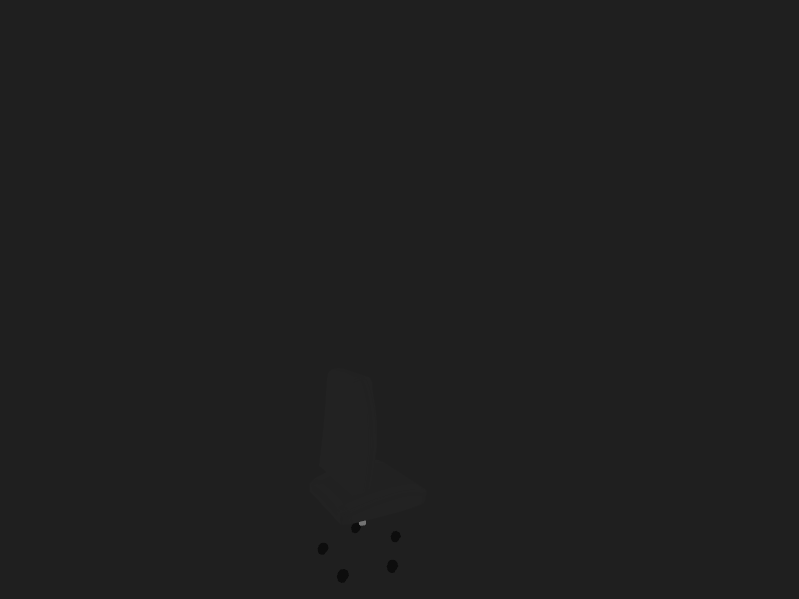
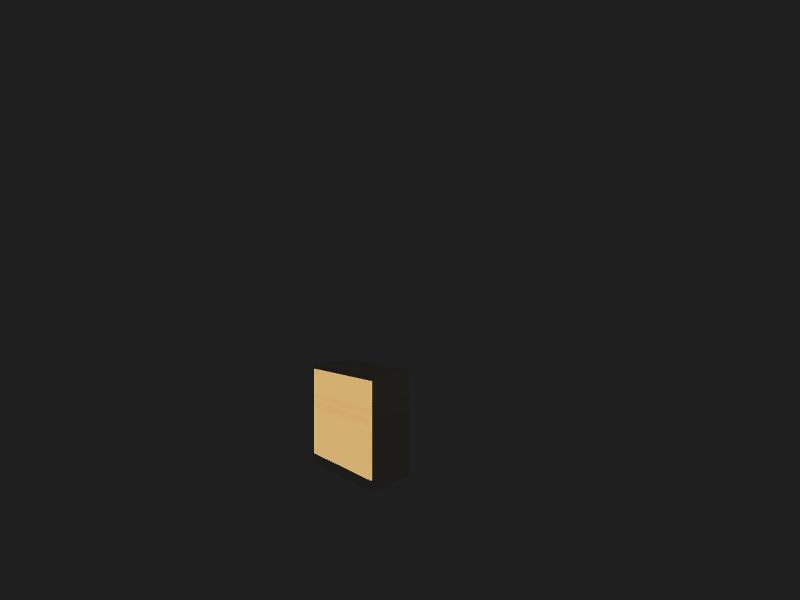
fix origin and rpy; fix double and single quote; fix scene graph tree

Changed region(s): [[0.3905, 0.601, 0.4806, 0.8114]]

diff --git a/src/esp/assets/URDFParser.cpp b/src/esp/assets/URDFParser.cpp
@@ -53,8 +53,8 @@ bool URDFParser::parse() {
       index = line.find("<link");
       if (index != -1) {
         is_link = true;
-        int name_index1 = line.find("\"");
-        int name_index2 = line.find("\"", name_index1 + 1);
+        int name_index1 = getQuoteIndex(line, index + 1); 
+        int name_index2 = getQuoteIndex(line, name_index1 + 1);
         link_vec_.push_back(std::make_unique<Link>());
         link_vec_[link_vec_.size() - 1]->link_name =
             line.substr(name_index1 + 1, name_index2 - name_index1 - 1);
@@ -76,8 +76,8 @@ bool URDFParser::parse() {
       // Get the mesh filename
       index = line.find("<mesh");
       if (index != -1 && is_link == true && is_visual == true) {
-        int name_index1 = line.find("\"");
-        int name_index2 = line.find("\"", name_index1 + 1);
+        int name_index1 = getQuoteIndex(line, index + 1); 
+        int name_index2 = getQuoteIndex(line, name_index1 + 1); 
         link_vec_[link_vec_.size() - 1]->mesh_name = base_path + 
             line.substr(name_index1 + 1, name_index2 - name_index1 - 1);
         // std::cout << name_link_map[link_vec_[link_vec_.size() -
@@ -100,29 +100,26 @@ bool URDFParser::parse() {
       // Get the joint type
       index = line.find("type");
       if (index != -1 && is_joint == true) {
-        // First two index for joint name
-        int name_index1 = line.find("\"");
-        int name_index2 = line.find("\"", name_index1 + 1);
-        // Index 3 and 4 for joint type
-        int name_index3 = line.find("\"", name_index2 + 1);
-        int name_index4 = line.find("\"", name_index3 + 1);
+        // Index 1 and 2 for joint type
+        int name_index1 = getQuoteIndex(line, index + 1); 
+        int name_index2 = getQuoteIndex(line, name_index1 + 1); 
         joint_vec_[joint_vec_.size() - 1]->joint_type =
-            line.substr(name_index3 + 1, name_index4 - name_index3 - 1);
+            line.substr(name_index1 + 1, name_index2 - name_index1 - 1);
       }
 
       // Get the parent name
       index = line.find("<parent");
       if (index != -1 && is_joint == true) {
-        int name_index1 = line.find("\"");
-        int name_index2 = line.find("\"", name_index1 + 1);
+        int name_index1 = getQuoteIndex(line, index + 1); 
+        int name_index2 = getQuoteIndex(line, name_index1 + 1); 
         joint_vec_[joint_vec_.size() - 1]->parent_name =
             line.substr(name_index1 + 1, name_index2 - name_index1 - 1);
       }
       // Get the child name
       index = line.find("<child");
       if (index != -1 && is_joint == true) {
-        int name_index1 = line.find("\"");
-        int name_index2 = line.find("\"", name_index1 + 1);
+        int name_index1 = getQuoteIndex(line, index + 1); 
+        int name_index2 = getQuoteIndex(line, name_index1 + 1); 
         joint_vec_[joint_vec_.size() - 1]->child_name =
             line.substr(name_index1 + 1, name_index2 - name_index1 - 1);
       }
@@ -135,8 +132,8 @@ bool URDFParser::parse() {
       // Parse the origin for link-visual and joint
       index = line.find("<origin");
       if (index != -1) {
-        int origin_index1 = line.find("\"");
-        int origin_index2 = line.find("\"", origin_index1 + 1);
+        int origin_index1 = getQuoteIndex(line, index + 1); 
+        int origin_index2 = getQuoteIndex(line, origin_index1 + 1); 
         std::string origin =
             line.substr(origin_index1 + 1, origin_index2 - origin_index1 - 1);
 
@@ -164,8 +161,8 @@ bool URDFParser::parse() {
       // Parse the rpy for link-visual and joint
       index = line.find("rpy");
       if(index != -1) {
-        int rpy_index1 = line.find("\"", index + 1);
-        int rpy_index2 = line.find("\"", rpy_index2 + 1);
+        int rpy_index1 = getQuoteIndex(line, index + 1); 
+        int rpy_index2 = getQuoteIndex(line, rpy_index1 + 1); 
         std::string rpy =
               line.substr(rpy_index1 + 1, rpy_index2 - rpy_index1 - 1);
 
@@ -196,14 +193,14 @@ bool URDFParser::parse() {
       if (index != -1 && is_joint == true) {
         int temp_index;
         temp_index = line.find("lower");
-        int lower_index1 = line.find("\"", temp_index + 1);
-        int lower_index2 = line.find("\"", lower_index1 + 1);
+        int lower_index1 = getQuoteIndex(line, temp_index + 1); 
+        int lower_index2 = getQuoteIndex(line, lower_index1 + 1); 
         std::string lower =
             line.substr(lower_index1 + 1, lower_index2 - lower_index1 - 1);
 
         temp_index = line.find("upper");
-        int upper_index1 = line.find("\"", temp_index);
-        int upper_index2 = line.find("\"", upper_index1 + 1);
+        int upper_index1 = getQuoteIndex(line, temp_index + 1);
+        int upper_index2 = getQuoteIndex(line, upper_index1 + 1); 
         std::string upper =
             line.substr(upper_index1 + 1, upper_index2 - upper_index1 - 1);
 
@@ -215,8 +212,8 @@ bool URDFParser::parse() {
       // Parse the axis for joint
       index = line.find("<axis");
       if (index != -1 && is_joint == true) {
-        int axis_index1 = line.find("\"");
-        int axis_index2 = line.find("\"", axis_index1 + 1);
+        int axis_index1 = getQuoteIndex(line, index);
+        int axis_index2 = getQuoteIndex(line, axis_index1 + 1); 
         std::string axis =
             line.substr(axis_index1 + 1, axis_index2 - axis_index1 - 1);
 
@@ -247,11 +244,8 @@ bool URDFParser::parse() {
     children->joint_axis = joint_vec_[i]->axis;
     // Convert the coordinate from the parent link frame to the children link
     // frame
-    children->joint_origin = children->origin;
-    children->joint_rpy = children->rpy;
-    // children->joint_origin.x = children->origin.x;
-    // children->joint_origin.y = children->origin.y;
-    // children->joint_origin.z = children->origin.z;
+    children->joint_origin = joint_vec_[i]->origin;
+    children->joint_rpy = joint_vec_[i]->rpy;
 
     // Update the hierarchy tree
     children->parent_link = parent;
@@ -275,6 +269,21 @@ bool URDFParser::parse() {
   }
 
   return true;
+}
+
+int URDFParser::getQuoteIndex(const std::string& line, int index) {
+  int index1 = line.find("\'", index);
+  int index2 = line.find("\"", index);
+
+  if(index1 == -1 && index2 == -1) {
+    LOG(ERROR) << "Some Error for " << line << ", index: " << index << "\n";
+    exit(0);
+  }
+
+  if(index1 == -1) return index2;
+  if(index2 == -1) return index1;
+  
+  return std::min(index1, index2);
 }
 
 }  // namespace assets

diff --git a/src/esp/assets/ResourceManager.cpp b/src/esp/assets/ResourceManager.cpp
@@ -843,113 +843,46 @@ void ResourceManager::loadURDFMesh(
   child->setJointLimit(node->joint_limit);
   child->setJointAxis(node->joint_axis);
 
+  // Deal with the joint origin and rpy for the node
+  auto& child_object = *child;
+  vec3f joint_rpy = node->joint_rpy, joint_origin = node->joint_origin;
+
+  // Deal with the rpy of the joint
+  child_object.rotateX(Magnum::Rad(joint_rpy[0]));
+  child_object.rotateY(Magnum::Rad(joint_rpy[1]));
+  child_object.rotateZ(Magnum::Rad(joint_rpy[2]));
+
+  // Deal with the origin of the joint
+  child_object.translateLocal(Magnum::Vector3(joint_origin[0], joint_origin[1], joint_origin[2]));
+
   if (file != "") {
     const assets::AssetInfo info = assets::AssetInfo::fromPath(file);
 
-    if (!loadURDFMeshData(info, child, drawables)) {
+    if (!loadGeneralMeshData(info, child, drawables)) {
       LOG(ERROR) << "cannot load " << file;
       std::exit(1);
     }
+
+    // Deal with the link origin and rpy for the mesh node
+    auto* mesh_node = child->children().first();
+    auto& object = *mesh_node;
+    vec3f rpy = node->rpy, origin = node->origin;
+    
+    // std::cout << object.translation()[0] << " " << object.translation()[1] << " " << object.translation()[2] << " !!!!\n ";
+    // std::cout << object.rotation().vector().x() << " " << object.rotation().vector().y() << " " << object.rotation().vector().z() << "\n";
+
+    // Deal with the rpy of the link
+    object.rotateX(Magnum::Rad(rpy[0]));
+    object.rotateY(Magnum::Rad(rpy[1]));
+    object.rotateZ(Magnum::Rad(rpy[2]));
+
+    // Deal with the origin of the link
+    object.translateLocal(Magnum::Vector3(origin[0], origin[1], origin[2]));
+
   }
 
   for (int i = 0; i <= int(node->child_link.size()) - 1; ++i) {
     loadURDFMesh(node->child_link[i], child, drawables);
-  }
-}
-
-bool ResourceManager::loadURDFMeshData(
-    const AssetInfo& info,
-    scene::ArticulatedPartSceneNode* child /* = nullptr */,
-    DrawableGroup* drawables /* = nullptr */) {
-  const std::string& filename = info.filepath;
-  const bool fileIsLoaded = resourceDict_.count(filename) > 0;
-  const bool drawData = child != nullptr && drawables != nullptr;
-
-  // Mesh & metaData container
-  MeshMetaData metaData;
-
-#ifndef MAGNUM_BUILD_STATIC
-  Magnum::PluginManager::Manager<Importer> manager;
-#else
-  // avoid using plugins that might depend on different library versions
-  Magnum::PluginManager::Manager<Importer> manager{"nonexistent"};
-#endif
-
-  std::unique_ptr<Importer> importer =
-      manager.loadAndInstantiate("AnySceneImporter");
-  manager.setPreferredPlugins("GltfImporter", {"TinyGltfImporter"});
-#ifdef ESP_BUILD_ASSIMP_SUPPORT
-  manager.setPreferredPlugins("ObjImporter", {"AssimpImporter"});
-#endif
-
-  // Optional File loading
-  if (!fileIsLoaded) {
-    if (!importer->openFile(filename)) {
-      LOG(ERROR) << "Cannot open file " << filename;
-      return false;
-    }
-    // if this is a new file, load it and add it to the dictionary
-    loadTextures(*importer, &metaData);
-    loadMaterials(*importer, &metaData);
-    loadMeshes(*importer, &metaData);
-    resourceDict_.emplace(filename, metaData);
-
-    // Register magnum mesh
-    if (importer->defaultScene() != -1) {
-      Corrade::Containers::Optional<Magnum::Trade::SceneData> sceneData =
-          importer->scene(importer->defaultScene());
-      if (!sceneData) {
-        LOG(ERROR) << "Cannot load scene, exiting";
-        return false;
-      }
-      for (unsigned int sceneDataID : sceneData->children3D()) {
-        loadMeshHierarchy(*importer, resourceDict_[filename].root, sceneDataID);
-      }
-    } else if (importer->mesh3DCount() && meshes_[metaData.meshIndex.first]) {
-      // no default scene --- standalone OBJ/PLY files, for example
-      // take a wild guess and load the first mesh with the first material
-      // addMeshToDrawables(metaData, *parent, drawables, ID_UNDEFINED, 0, 0);
-      loadMeshHierarchy(*importer, resourceDict_[filename].root, 0);
-    } else {
-      LOG(ERROR) << "No default scene available and no meshes found, exiting";
-      return false;
-    }
-
-    const quatf transform = info.frame.rotationFrameToWorld();
-    Magnum::Matrix4 R = Magnum::Matrix4::from(
-        Magnum::Quaternion(transform).toMatrix(), Magnum::Vector3());
-    resourceDict_[filename].root.transformFromLocalToParent =
-        R * resourceDict_[filename].root.transformFromLocalToParent;
-  } else {
-    metaData = resourceDict_[filename];
-  }
-
-  // Optional Instantiation
-  if (!drawData) {
-    //! Do not instantiate object
-    return true;
-  } else {
-    // intercept nullptr scene graph nodes (default) to add mesh to
-    // metadata list without adding it to scene graph
-    scene::SceneNode& newNode = *child;
-
-    //! Do instantiate object
-    MeshMetaData& metaData = resourceDict_[filename];
-    const bool forceReload = false;
-    // re-bind position, normals, uv, colors etc. to the corresponding buffers
-    // under *current* gl context
-    if (forceReload) {
-      int start = metaData.meshIndex.first;
-      int end = metaData.meshIndex.second;
-      if (0 <= start && start <= end) {
-        for (int iMesh = start; iMesh <= end; ++iMesh) {
-          meshes_[iMesh]->uploadBuffersToGPU(forceReload);
-        }
-      }
-    }  // forceReload
-
-    addComponent(metaData, newNode, drawables, metaData.root);
-    return true;
   }
 }
 

diff --git a/src/esp/assets/URDFParser.h b/src/esp/assets/URDFParser.h
@@ -50,6 +50,7 @@ class URDFParser {
 
   void set(const std::string& filename);
   bool parse();
+  int getQuoteIndex(const std::string& line, int index = 0);
 
   const Link& getRoot() const { return *root_; }
 
